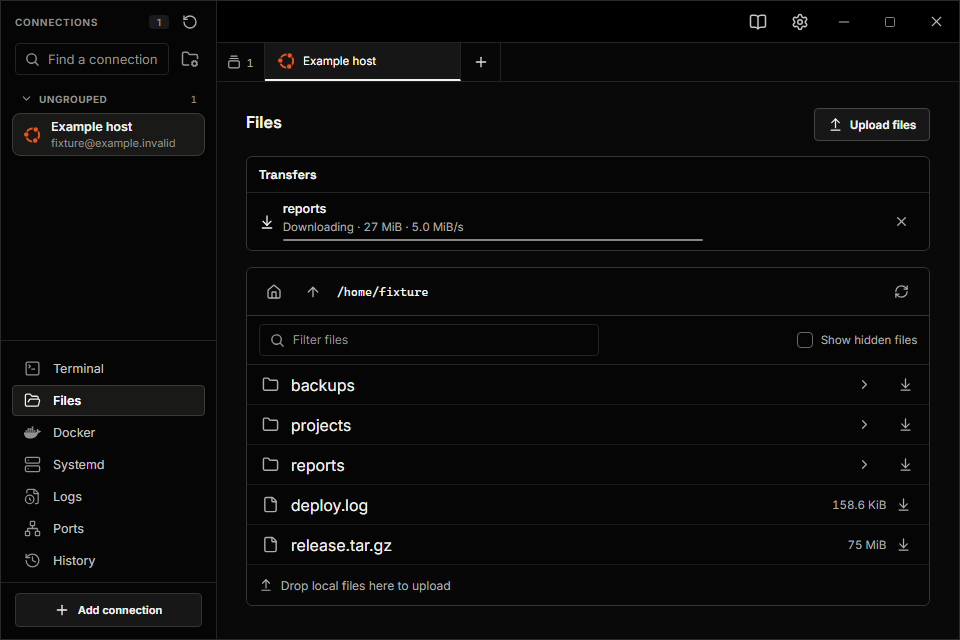
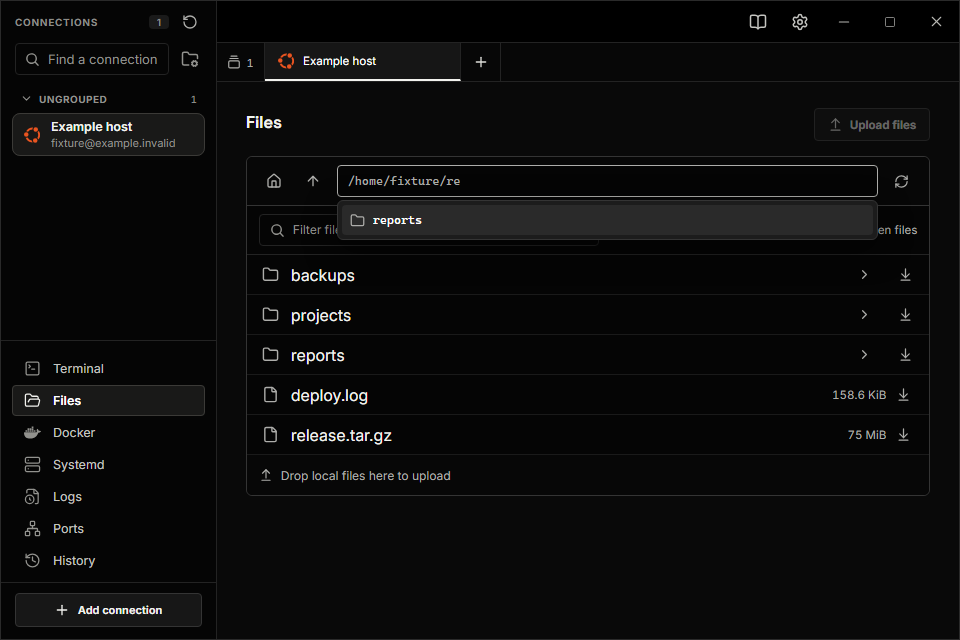
Document path suggestions and cover Windows path selection

diff --git a/src/pages/FilesPane.test.tsx b/src/pages/FilesPane.test.tsx
@@ -90,6 +90,29 @@ it("suggests matching folders under the typed parent and opens a keyboard select
   expect(invoke.mock.calls.filter(([, args]) => args.folder === "/srv/")).toHaveLength(1);
 });
 
+it("uses the loaded folder for suggestions when typing a Windows path", async () => {
+  invoke.mockImplementation(async (command, args) => {
+    if (command !== "list_transfer_folder") throw new Error(command);
+    return {
+      path: args.folder ?? "/C:/Users/fixture",
+      entries: args.folder ? [] : [{ name: "Documents", kind: "folder", size: null }],
+    };
+  });
+  const user = userEvent.setup();
+  render(<FilesPane connection={host} workspaceId="tab" />);
+  const path = await screen.findByRole<HTMLInputElement>("combobox", {
+    name: "Remote folder path",
+  });
+  await user.clear(path);
+  await user.paste(String.raw`C:\Users\fixture\Doc`);
+  await user.click(await screen.findByRole("option", { name: "Documents" }));
+  await waitFor(() => expect(path.value).toBe("/C:/Users/fixture/Documents"));
+  expect(invoke.mock.calls.map(([, args]) => args.folder)).toEqual([
+    null,
+    "/C:/Users/fixture/Documents",
+  ]);
+});
+
 it("downloads a remote selection to the chosen local folder and waits for overwrite consent", async () => {
   invoke.mockImplementation(async (command, args) => {
     if (command === "list_transfer_folder")
